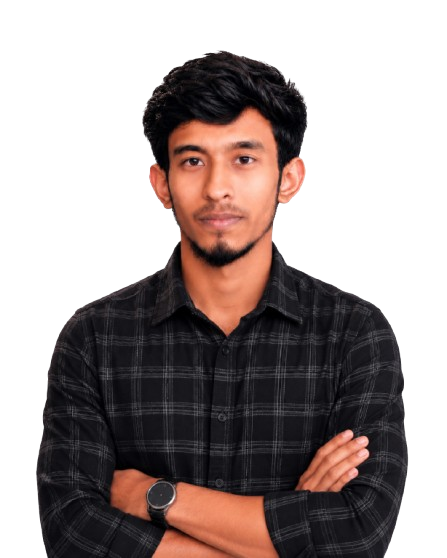
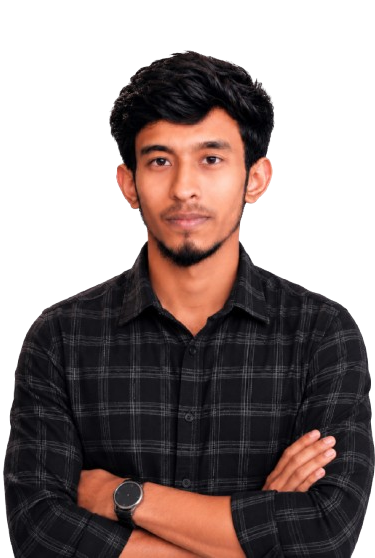
feat(hero): comple hero section with navbar

diff --git a/style.css b/style.css
@@ -1,0 +1,132 @@
+/* Reset  Style */
+* {
+  padding: 0;
+  margin: 0;
+  box-sizing: border-box;
+}
+
+body {
+  font-family: "Open Sans", sans-serif;
+  font-size: 1rem;
+}
+
+:root {
+  --primary-color: #fd6e0a;
+  --secondary-color: #fff8f3;
+  --big-text: 60px;
+  --mid-text: 35px;
+  --section-heading-text: 30px;
+  --about-section-heading-text: 27px;
+  --about-section-sub-heading-text: 23px;
+  --peragraph-big-text: 18px;
+  --peragraph-text: 16px;
+  --peragraph-small-text: 14px;
+  --dark-01: #181818;
+  --dark-02: #474747;
+  --dark-03: #757575;
+  --big-spacing: 24px;
+  --spacing: 16px;
+  --small-spacing: 8px;
+}
+
+.container {
+  max-width: 1200px;
+  margin: 0 auto;
+}
+
+/* Header part CSS */
+#header {
+  background-color: var(--secondary-color);
+}
+
+/* Navbar Part CSS start */
+#navbar {
+  display: flex;
+  justify-content: space-between;
+  align-items: center;
+  padding: 20px 0;
+}
+.logo {
+  font-size: var(--mid-text);
+  font-weight: bold;
+}
+.logo-style {
+  color: var(--primary-color);
+}
+#navbar .nav-links {
+  display: flex;
+  align-items: center;
+  gap: 40px;
+  list-style: none;
+}
+#navbar .nav-links li a {
+  text-decoration: none;
+  color: var(--dark-02);
+}
+.hire-me-button {
+  border: none;
+  background-color: var(--primary-color);
+  padding: 13px 25px;
+  border-radius: 5px;
+  font-size: var(--peragraph-text);
+  color: white;
+  font-weight: bold;
+}
+/* Navbar Part CSS end */
+
+/* Hero part CSS start */
+#hero {
+  /* padding-top: 100px; */
+  display: grid;
+  grid-template-columns: repeat(2, 1fr);
+  align-items: center;
+}
+.hero-content {
+  justify-self: start;
+}
+.hero-content h3 {
+  font-size: var(--mid-text);
+  color: var(--dark-02);
+  margin-bottom: 10px;
+}
+.hero-content h1 {
+  font-size: var(--big-text);
+  color: var(--dark-01);
+  margin-bottom: 10px;
+}
+.hero-content p {
+  font-size: var(--peragraph-text);
+  color: var(--dark-03);
+  margin-bottom: 30px;
+}
+.hero-content-btn {
+  display: flex;
+  gap: 15px;
+}
+.download-cv-btn {
+  border: none;
+  background-color: var(--primary-color);
+  padding: 13px 25px;
+  border-radius: 5px;
+  font-size: var(--peragraph-text);
+  color: white;
+  font-weight: bold;
+}
+.contact-btn {
+  border: 1px solid hsla(25, 98%, 52%, 0.356);
+  background-color: var(--secondary-color);
+  padding: 13px 25px;
+  border-radius: 5px;
+  font-size: var(--peragraph-text);
+  color: var(--primary-color);
+  font-weight: bold;
+
+  transition: 0.3s ease-in;
+}
+.contact-btn:hover {
+  border: 1px solid #ff6a00;
+}
+.hero-img {
+  justify-self: end;
+}
+/* Hero part CSS end */

diff --git a/inedx.html b/inedx.html
@@ -4,7 +4,63 @@
     <meta charset="UTF-8" />
     <meta name="viewport" content="width=device-width, initial-scale=1.0" />
     <title>Foysal Hossien - Portfolio Website</title>
+    <!-- Add favicon icon -->
+    <link rel="icon" type="image/png" href="./images/favicon.ico" />
+    <!-- Add external CSS link -->
     <link rel="stylesheet" href="style.css" />
+    <!-- Google Fonts -->
+    <link rel="preconnect" href="https://fonts.googleapis.com" />
+    <link rel="preconnect" href="https://fonts.gstatic.com" crossorigin />
+    <link
+      href="https://fonts.googleapis.com/css2?family=Open+Sans:ital,wght@0,300..800;1,300..800&display=swap"
+      rel="stylesheet"
+    />
+    <!-- Font awsome -->
+    <link
+      rel="stylesheet"
+      href="https://cdnjs.cloudflare.com/ajax/libs/font-awesome/7.0.1/css/all.min.css"
+      integrity="sha512-2SwdPD6INVrV/lHTZbO2nodKhrnDdJK9/kg2XD1r9uGqPo1cUbujc+IYdlYdEErWNu69gVcYgdxlmVmzTWnetw=="
+      crossorigin="anonymous"
+      referrerpolicy="no-referrer"
+    />
   </head>
-  <body></body>
+
+  <body>
+    <!-- Navbar part start -->
+    <header id="header">
+      <nav id="navbar" class="container">
+        <h2 class="logo">Foy<span class="logo-style">sal</span></h2>
+        <ul class="nav-links">
+          <li><a href="">Portfolio</a></li>
+          <li><a href="">Blog</a></li>
+          <li>
+            <button class="hire-me-button">Hire Me</button>
+          </li>
+        </ul>
+      </nav>
+
+      <section id="hero" class="container">
+        <div class="hero-content">
+          <h3>Hi, I am</h3>
+          <h1>Foysal Hossien</h1>
+          <p>
+            Shot what able cold new see hold.Friendly as an betrayed formerly
+            he. Morning because as to society behaved moments.
+          </p>
+          <div class="hero-content-btn">
+            <button class="download-cv-btn">
+              <i class="fa-solid fa-download"></i> Download CV
+            </button>
+            <button class="contact-btn">
+              <i class="fa-solid fa-phone"></i> Contact
+            </button>
+          </div>
+        </div>
+        <div class="hero-img">
+          <img src="./images/foysal.png" alt="" />
+        </div>
+      </section>
+    </header>
+    <!-- Navbar part end -->
+  </body>
 </html>
